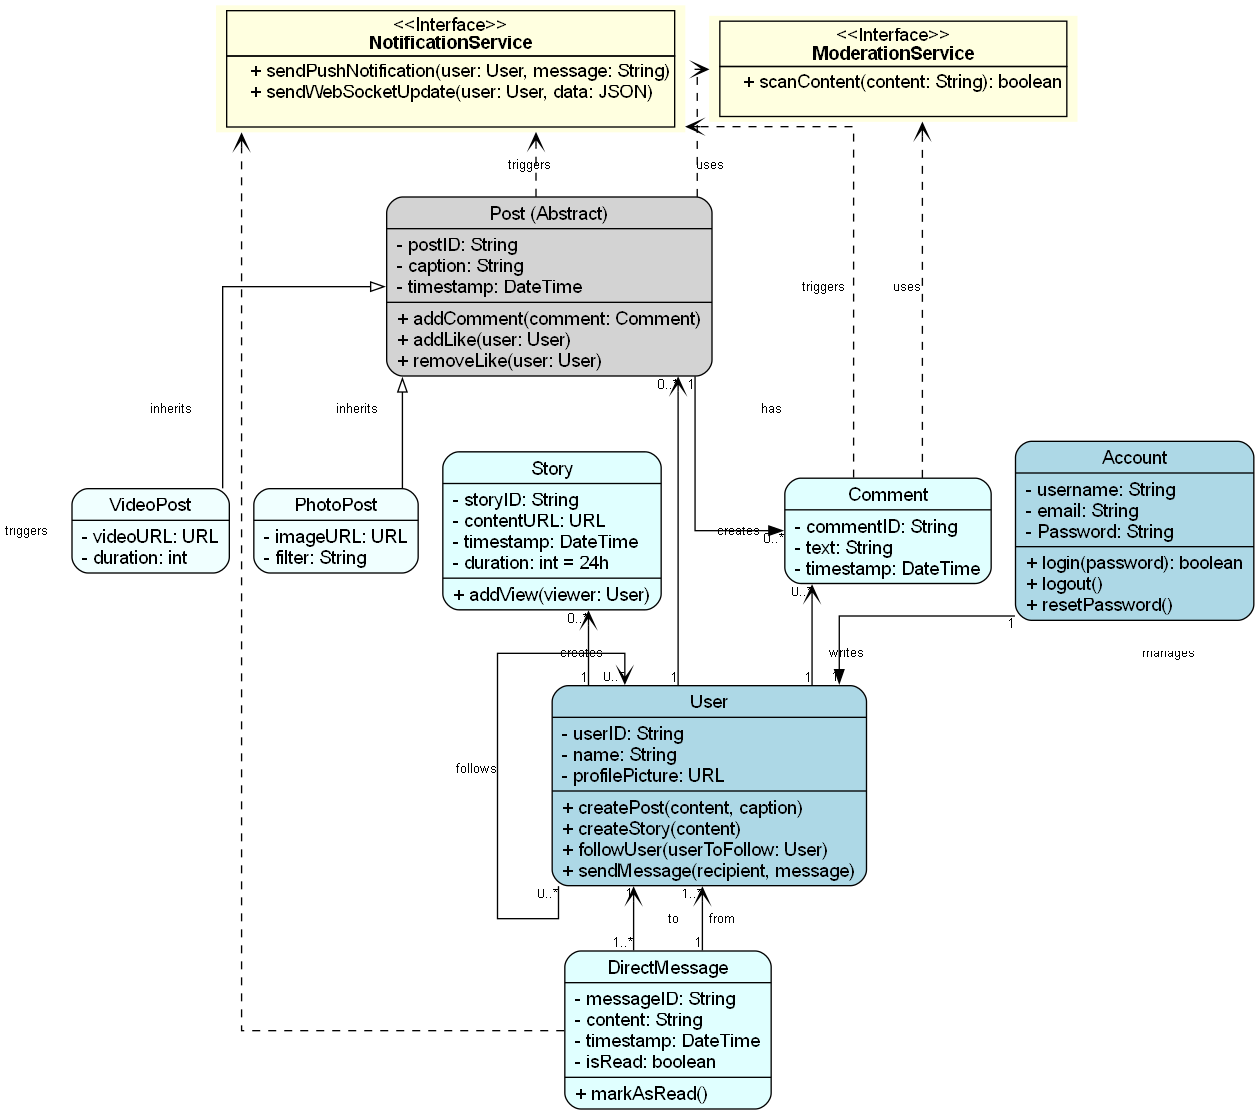
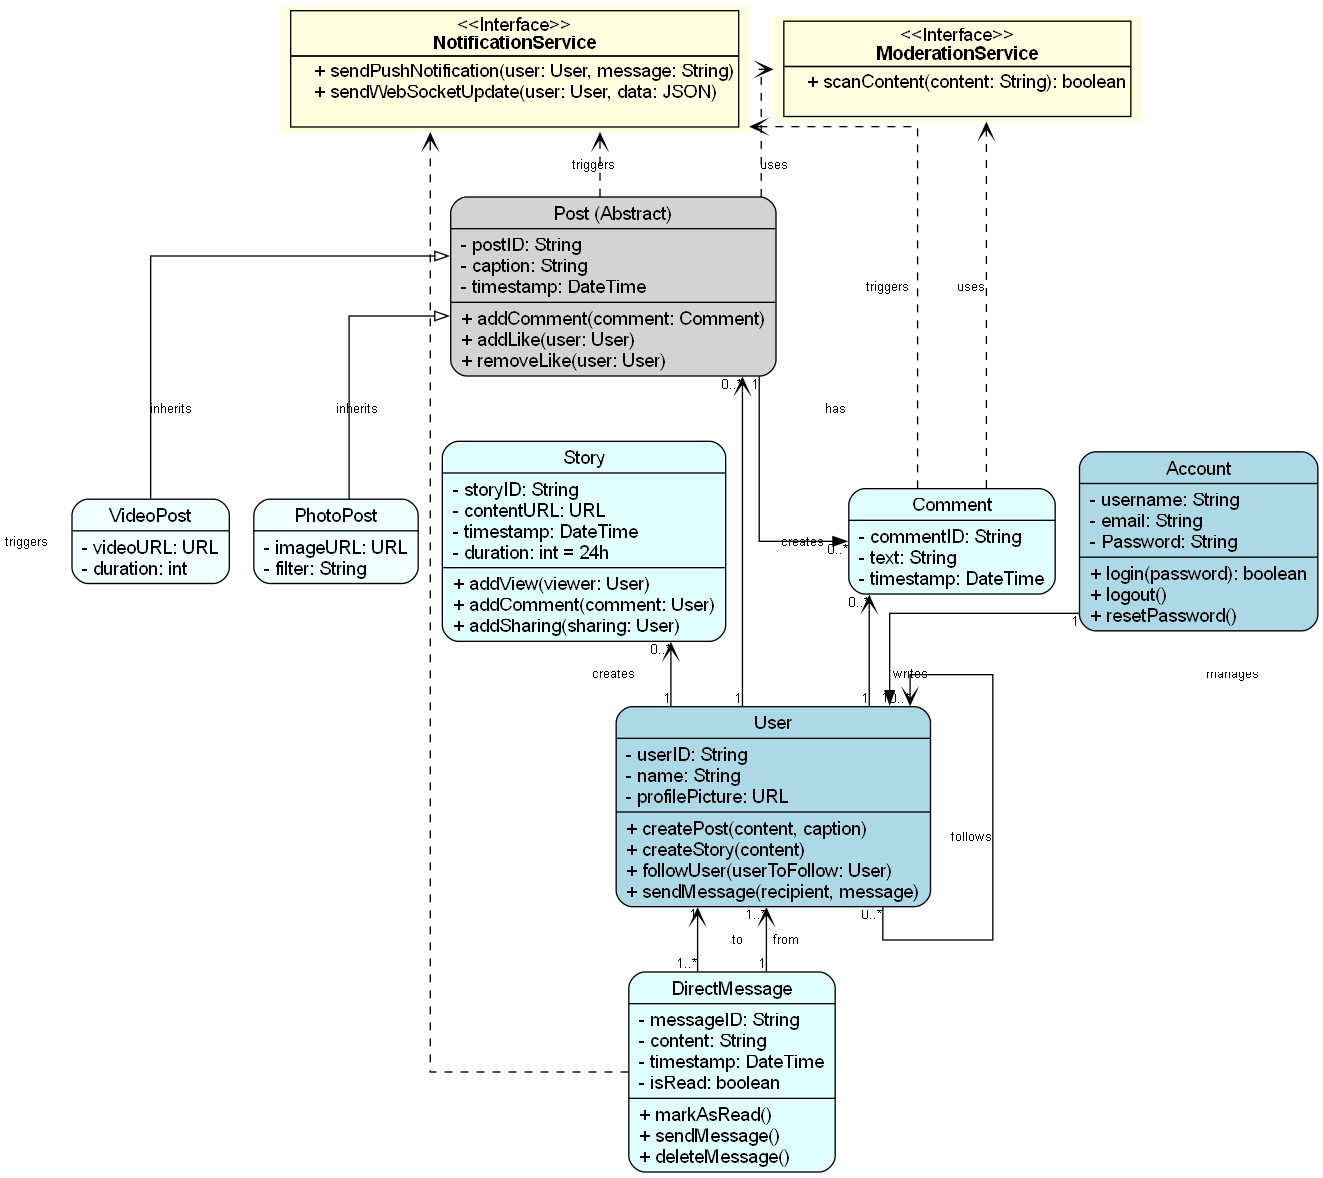
Add files via upload

diff --git a/Class_Diagram_Instagram.py b/Class_Diagram_Instagram.py
@@ -81,7 +81,9 @@ dot.node('Story',
          r'- contentURL: URL\l'
          r'- timestamp: DateTime\l'
          r'- duration: int = 24h\l|'
-         r'+ addView(viewer: User)\l}',
+         r'+ addView(viewer: User)\l'
+         r'+ addComment(comment: User)\l'
+         r'+ addSharing(sharing: User)\l}',
          fillcolor='lightcyan', style='filled,rounded')
 
 dot.node('Comment',
@@ -97,7 +99,9 @@ dot.node('DirectMessage',
          r'- content: String\l'
          r'- timestamp: DateTime\l'
          r'- isRead: boolean\l|'
-         r'+ markAsRead()\l}',
+         r'+ markAsRead()\l'
+         r'+ sendMessage()\l'
+         r'+ deleteMessage()\l}',
          fillcolor='lightcyan', style='filled,rounded')
 
 
